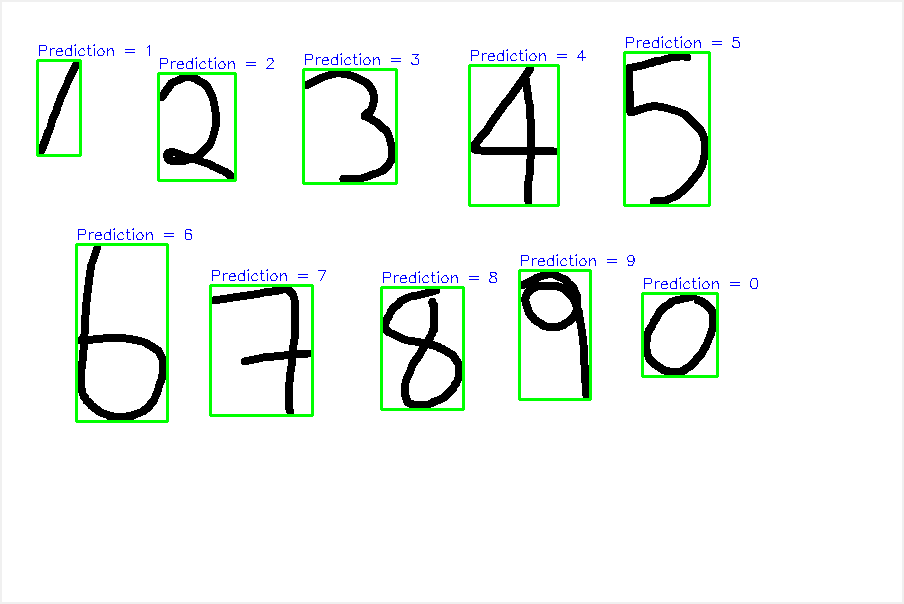
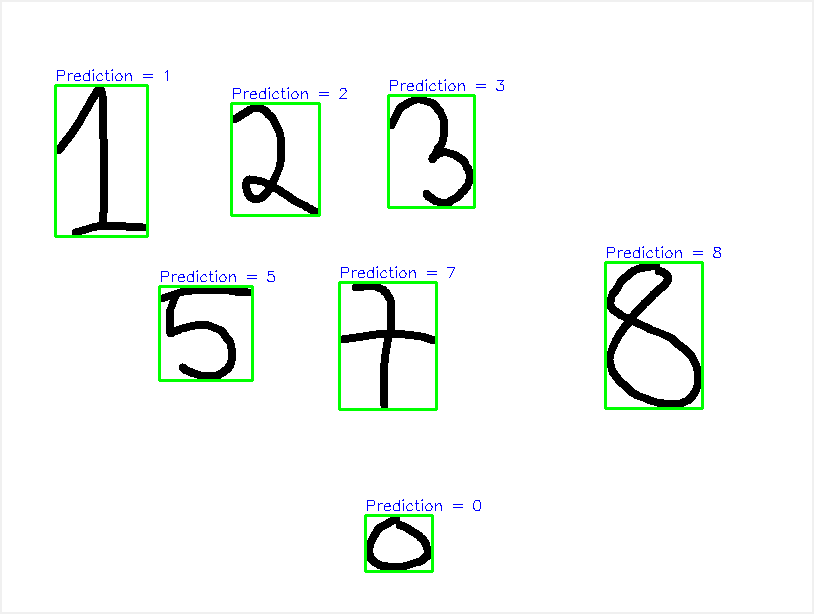
Changed the code so the ouput is viewed in same window
This version now ends the use of matplotlib libraray. Now the prediction is viewed side by side in the UI

diff --git a/GUI.py b/GUI.py
@@ -7,21 +7,19 @@ For training the model refer to the IPython notebook
 #libraries
 from tkinter import *
 import tkinter as tk
-from PIL import ImageGrab
+from PIL import ImageGrab ,ImageTk, Image
 import numpy as np
 import cv2
 import win32gui
-import matplotlib.pyplot as plt
-import matplotlib.image as mpimg
 from keras.models import load_model
+
 
 # loading the model
 model = load_model(r'C:\Users\panka\Study\Machine Learning\Digit Recognition GUI\model.h5')
 
-# print("model loaded succesfully")
 
 def predict_digit(filename):
-    # opening the image and converting it fit fot input in model
+    # opening the image and converting it fit for input in model
     image = cv2.imread(filename)
     grey = cv2.cvtColor(image.copy(), cv2.COLOR_BGR2GRAY)
     ret, th = cv2.threshold(grey.copy(), 75, 255, cv2.THRESH_BINARY_INV)
@@ -50,7 +48,8 @@ def predict_digit(filename):
         cv2.putText(image, data, (x, y - 5), font, fontScale, color, thickness)
     #saving the final image and returning its file name
     cv2.imwrite('predict.png', image)
-    return 'predict.png'
+    return 'predict.png' 
+
 
 
 class App(tk.Tk):
@@ -58,9 +57,10 @@ class App(tk.Tk):
         tk.Tk.__init__(self)
         self.lastx = self.lasty = None
         self.x = self.y = 0
-        self.geometry("820x690")
+        #self.geometry("820x690")
         self.resizable(0,0)
-        self.title("Handwritten Digit Recognition GUI")
+        #self.resizable(width = True, height = True)
+        self.title("Handwriiten Digit Recognition GUI")
 
 
         # Creating elements
@@ -74,22 +74,52 @@ class App(tk.Tk):
 
         # Grid structure
         self.canvas.grid(row=0, column=0, pady=2, sticky=W, columnspan=2)
-        self.classify_btn.grid(row=1, column=0, pady=2, padx=2)
-        self.button_clear.grid(row=1, column=1, pady=2, )
+        self.classify_btn.grid(row=1, column=1, pady=2, padx=2)
+        self.button_clear.grid(row=1, column=2, pady=2, padx =2)
         self.canvas.bind("<Button-1>", self.activate_event)
+        
+        img = Image.open("First.jpg")
+        # PhotoImage class is used to add image to widgets, icons etc
+        img = ImageTk.PhotoImage(img)
+   
+        # create a label
+        panel = Label(self, image = img)
+      
+        # set the image as img 
+        panel.image = img
+        panel.grid(row=0, column=2)
 
     def clear_all(self):
         #clear button
         self.canvas.delete("all")
+        #reset the output screen
+        img = Image.open("First.jpg")
+      
+        # PhotoImage class is used to add image to widgets, icons etc
+        img = ImageTk.PhotoImage(img)
+   
+        # create a label
+        panel = Label(self, image = img)
+      
+        # set the image as img 
+        panel.image = img
+        panel.grid(row=0, column=2)
 
     def classify_handwriting(self):
         HWND = self.canvas.winfo_id()         # get the handle of the canvas
         rect = win32gui.GetWindowRect(HWND)   # get the coordinate of the canvas
         ImageGrab.grab(rect).save('test.png') # taking ss of canvas
 
-        file_name = predict_digit("test.png") 
-        img = mpimg.imread(file_name)   #loading the predicted image
-        plt.imshow(img, aspect='auto')  #output
+        file_name = predict_digit("test.png")  
+        # opens the output image
+        img = Image.open(file_name)
+        # PhotoImage class is used to add image to widgets, icons etc
+        img = ImageTk.PhotoImage(img)
+   
+        panel = Label(self, image = img)
+        #   set the image as img 
+        panel.image = img
+        panel.grid(row=0, column=2)
 
     def activate_event(self, event):
         self.canvas.bind('<B1-Motion>', self.draw_lines)
